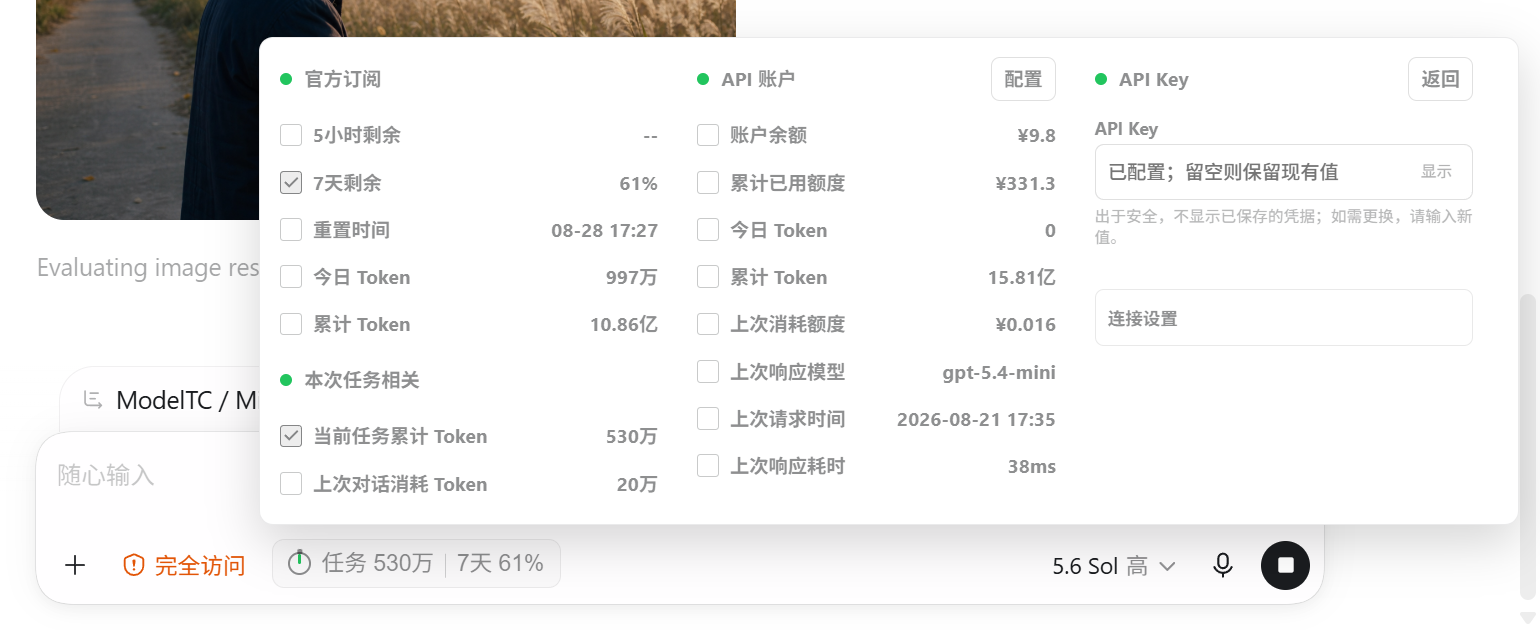
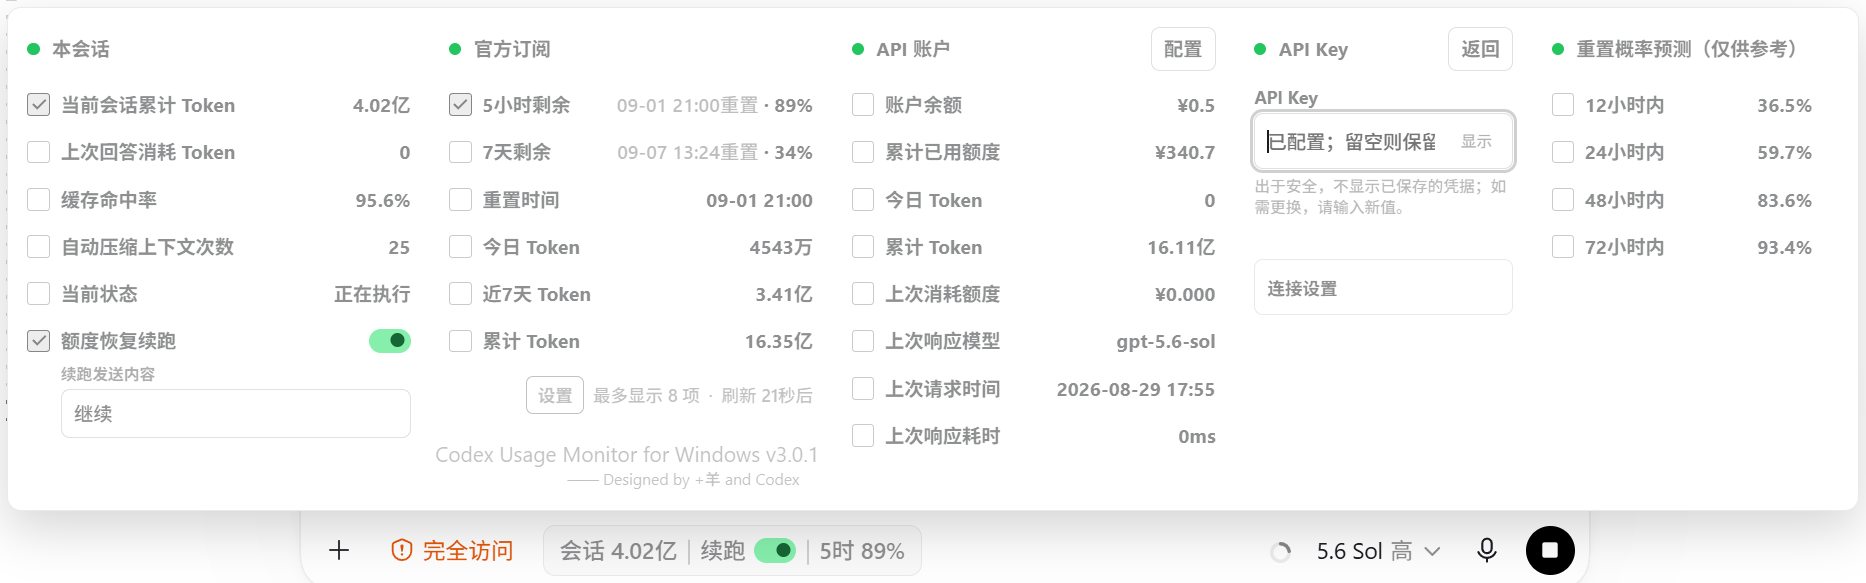
Release v3.0.1

diff --git a/assets/usage-inject.js b/assets/usage-inject.js
@@ -487,7 +487,7 @@
     .usage-summary-item { position: relative; display: inline-flex; align-items: center; min-width: 0; height: 100%; overflow: hidden; text-overflow: ellipsis; white-space: nowrap; font-variant-numeric: tabular-nums; }
     .usage-summary-auto-resume { gap: 5px; overflow: visible; }
     :host([data-minimal="true"]) .usage-summary-auto-resume { gap: 0; }
-    .usage-summary-toggle { flex: 0 0 30px; }
+    .usage-summary-toggle { flex: 0 0 24px; }
     .usage-summary-item + .usage-summary-item { padding-left: 13px; }
     .usage-summary-item + .usage-summary-item::before {
       content: "";
@@ -555,7 +555,7 @@
       bottom: calc(100% + 8px);
       z-index: 40;
       left: var(--usage-popover-shift, 0px);
-      width: var(--usage-popover-width, min(920px, calc(100vw - 24px)));
+      width: max-content;
       max-height: min(440px, calc(100vh - 72px));
       padding: 10px 11px;
       border: 1px solid color-mix(in srgb, currentColor 18%, transparent);
@@ -571,7 +571,7 @@
     }
     .usage-columns {
       display: grid;
-      grid-template-columns: repeat(var(--usage-column-count, 4), minmax(230px, 1fr));
+      grid-template-columns: var(--usage-column-widths, repeat(var(--usage-column-count, 4), minmax(230px, 1fr)));
       align-items: stretch;
     }
     .usage-column { box-sizing: border-box; display: flex; flex-direction: column; width: 100%; min-width: 0; padding: 0 11px; }
@@ -1109,7 +1109,7 @@
       usage.sources.official || normalizeSource({ id: "official", label: "官方订阅", accountType: "subscription", status: "unavailable" }, "official"),
       usage.sources["api-account"] || normalizeSource({ id: "api-account", label: "API 账户", accountType: "api-account", status: "unavailable", error: "未配置 API 账户令牌" }, "api-account"),
       { ...apiKeySource, label: "API Key" },
-      usage.sources["reset-forecast"] || normalizeSource({ id: "reset-forecast", label: "重置预测", accountType: "forecast", status: "unavailable", error: "重置预测接口暂不可用" }, "reset-forecast"),
+      usage.sources["reset-forecast"] || normalizeSource({ id: "reset-forecast", label: "重置概率预测（仅供参考）", accountType: "forecast", status: "unavailable", error: "重置概率预测接口暂不可用" }, "reset-forecast"),
     ].map(selectableSource).map((source) => {
       const localizedStatus = source.status === "loading" ? t("loading") : source.status === "ready" ? t("ready")
         : source.status === "stale" ? t("stale") : source.status === "rate-limited" ? t("rateLimited")
@@ -1417,6 +1417,12 @@
     }
     updateCountdowns(host, usage);
     host.dataset.rendered = "true";
+    if (host.dataset.open === "true") {
+      requestAnimationFrame(() => {
+        const state = window[STATE_KEY];
+        if (state?.host === host) state.ensure();
+      });
+    }
   };
 
   let preferredComposer = null;

diff --git a/assets/usage-placement.js b/assets/usage-placement.js
@@ -126,14 +126,19 @@
     host.style.setProperty("--usage-max-width", `${available}px`);
     const apiColumnsVisible = host.dataset.apiColumns !== "false";
     const baseColumnCount = apiColumnsVisible ? 4 : 2;
-    const basePopoverWidth = apiColumnsVisible ? 920 : 520;
     const columnCount = Math.max(baseColumnCount, Number.parseInt(host.dataset.columnCount, 10) || baseColumnCount);
-    const columnWidth = basePopoverWidth / baseColumnCount;
-    const preferredPopoverWidth = Math.round(columnWidth * columnCount);
-    const popoverWidth = Math.max(280, preferredPopoverWidth);
-    const desiredLeftExtension = -Math.max(0, preferredPopoverWidth - basePopoverWidth);
+    const resetForecastVisible = columnCount > baseColumnCount;
+    const columnWidths = [230, 230];
+    if (apiColumnsVisible) columnWidths.push(230, 170);
+    if (resetForecastVisible) columnWidths.push(160);
+    while (columnWidths.length < columnCount) columnWidths.push(230);
+    const columnWidthTotal = columnWidths.reduce((total, width) => total + width, 0);
+    const renderedPopoverWidth = box(host.shadowRoot?.querySelector(".usage-popover"))?.width || 0;
+    const popoverWidth = Math.max(280, renderedPopoverWidth, columnWidthTotal + 40);
+    const desiredLeftExtension = resetForecastVisible ? -160 : 0;
     const rightEdgeShift = window.innerWidth - 12 - placementX - popoverWidth;
-    const popoverShift = Math.min(desiredLeftExtension, rightEdgeShift);
+    const popoverShift = Math.min(desiredLeftExtension, rightEdgeShift) - 16;
+    host.style.setProperty("--usage-column-widths", columnWidths.map((width) => `${width}px`).join(" "));
     host.style.setProperty("--usage-popover-width", `${popoverWidth}px`);
     host.style.setProperty("--usage-popover-shift", `${popoverShift}px`);
     host.dataset.anchor = approval ? "approval" : widestGap ? "control-gap" : anchor ? "control" : "composer-left";

diff --git a/assets/usage-i18n.js b/assets/usage-i18n.js
@@ -10,7 +10,7 @@
       session: "本会话",
       apiAccount: "API 账户",
       apiKey: "API Key",
-      resetForecast: "重置预测",
+      resetForecast: "重置概率预测（仅供参考）",
       configure: "配置",
       back: "返回",
       saveConfiguration: "保存配置",
@@ -63,7 +63,7 @@
       englishUi: "English UI",
       updateNotifications: "自动更新",
       showApiColumns: "API 栏",
-      showResetForecast: "重置预测栏",
+      showResetForecast: "重置概率预测栏",
       settings: "设置",
       autoResume: "额度恢复续跑",
       autoResumeMessage: "续跑发送内容",
@@ -111,7 +111,7 @@
       session: "Session",
       apiAccount: "API Account",
       apiKey: "API Key",
-      resetForecast: "Reset Forecast",
+      resetForecast: "Reset Probability (FYI)",
       configure: "Configure",
       back: "Back",
       saveConfiguration: "Save configuration",
@@ -164,7 +164,7 @@
       englishUi: "中文界面",
       updateNotifications: "Auto update",
       showApiColumns: "API columns",
-      showResetForecast: "Reset forecast",
+      showResetForecast: "Reset probability",
       settings: "Settings",
       autoResume: "Resume after reset",
       autoResumeMessage: "Resume message",

diff --git a/assets/usage-constants.js b/assets/usage-constants.js
@@ -1,7 +1,7 @@
 (() => {
   const registry = window.__CODEX_USAGE_MONITOR_MODULES__ ||= {};
   registry.constants = Object.freeze({
-    VERSION: "3.0.0",
+    VERSION: "3.0.1",
     STATE_KEY: "__CODEX_USAGE_MONITOR_STATE__",
     USAGE_KEY: "__CODEX_USAGE_MONITOR__",
     HOST_ID: "codex-usage-monitor",

diff --git a/docs/data-sources.md b/docs/data-sources.md
@@ -8,13 +8,13 @@
 | --- | --- | --- |
 | 本会话 | 当前正在查看的 Codex 会话日志。 | 无需额外凭据。 |
 | 官方订阅 | Codex Desktop 本机 app-server 返回账户周期与 Token 汇总；任务事件来自本机 `token_count`。 | 无需额外凭据。 |
-| 重置预测 | 开源项目 [gussuri/codex-reset-observatory](https://github.com/gussuri/codex-reset-observatory) 公共接口返回的 12/24/48/72 小时社区统计概率。 | 无需凭据；非 OpenAI 官方数据。 |
+| 重置概率预测（仅供参考） | 开源项目 [gussuri/codex-reset-observatory](https://github.com/gussuri/codex-reset-observatory) 公共接口返回的 12/24/48/72 小时社区统计概率。 | 无需凭据；非 OpenAI 官方数据。 |
 | API 账户 | 第三方服务商的账户信息与请求日志接口。 | 账户访问令牌、数字用户 ID、Base URL。 |
 | API Key | 第三方服务商为某个 Key 提供的额度或用量接口，由 Provider 映射响应字段。 | 对应 API Key。 |
 
 API 账户与 API Key 是两种不同的数据来源：前者面向整个用户账户和请求日志，后者面向单个 Key 的额度信息。服务商的接口字段可能不同，可让 Codex 根据公开文档或脱敏响应适配。
 
-“重置预测”每 5 分钟读取一次上游固定 HTTPS 公共接口，只发送无凭据 GET 请求，不上传本机用量、任务标识、对话内容或任何凭据。预测结果只用于显示，不参与自动续跑；上游将数据标记为过期时，该栏显示红灯并保留最近概率。
+“重置概率预测”每 5 分钟读取一次上游固定 HTTPS 公共接口，只发送无凭据 GET 请求，不上传本机用量、任务标识、对话内容或任何凭据。预测结果只用于显示，不参与自动续跑；上游将数据标记为过期时，该栏显示红灯并保留最近概率。
 
 ## 2. 官方订阅
 
@@ -136,7 +136,8 @@ API Key 接口返回 `HTTP 429` 时，该栏显示“请求受限”并保留上
 
 - **极简模式**：隐藏指标名称，只显示数值与单位；最多选择 14 项，选中 9 项及以上时使用双行压缩布局。
 - **倒计时可视化**：在折叠监视栏最左侧显示与文字同色的圆形表盘，绿色指针每 60 秒顺时针旋转一圈。
-- **设置入口**：全局选项和品牌信息位于“官方订阅”栏底部；点击“设置”才展开两列三行的六个选项。新安装默认隐藏 API 账户和 API Key 两栏，可用“API 栏”开关恢复；“重置预测栏”可独立显示或隐藏。
+- **设置入口**：全局选项和品牌信息位于“官方订阅”栏底部；点击“设置”才展开两列三行的六个选项。新安装默认隐藏 API 账户和 API Key 两栏，可用“API 栏”开关恢复；“重置概率预测栏”可独立显示或隐藏。
+- **展开面板**：面板直接内嵌在 Codex 主界面；各栏拥有不随其他栏显隐变化的独立内容宽度：本会话、官方订阅和 API 账户各 230 px、API Key 170 px、重置概率预测 160 px。外框使用内容自适应宽度，自动计入边框、内边距和滚动条预留。
 - **显示顺序**：折叠监视栏严格按指标勾选先后从左到右排列；取消后再次勾选会移动到末尾，顺序随其他界面设置一起持久化。
 - **English UI**：切换中英文界面，并同步使用 `K`、`M`、`B` 英文单位。
 - **自动更新**：开启后，运行中的监视器最多每 24 小时无凭据检查一次本项目的 GitHub Release。仅接受正式版本及名称严格匹配的 Windows ZIP，并在下载后核对 GitHub 提供的 SHA-256 摘要；校验通过才安装并热替换监视器后台，不会重启 Codex。任何步骤失败都会保留当前版本，并在下个周期重试。

diff --git a/CHANGELOG.md b/CHANGELOG.md
@@ -1,10 +1,15 @@
 # Changelog
 
+## 3.0.1 - 2026-09-01
+
+- 恢复 Codex 内嵌展开面板，并为每个数据源设置不随其他栏显隐变化的独立宽度：本会话、官方订阅和 API 账户各 230 px、API Key 170 px、重置概率预测 160 px。外框使用内容自适应宽度，自动计入边框、内边距和滚动条预留，避免最右栏被裁切。
+- 收紧折叠监视栏“续跑”开关的额外占位，使右侧分隔线靠近开关；展开面板整体向左微移 16 px。
+
 ## 3.0.0 - 2026-09-01
 
 - 将“额度恢复续跑”的开关和发送内容改为按 Codex 任务 ID 独立保存；在一个任务中启停或修改内容，不再影响其他任务。
 - 自动续跑在额度恢复时直接向原任务提交续跑回合，原生排队消息保持原顺序和内容，不会被续跑消息覆盖或删除。
-- 新增可关闭的“重置预测”栏，每 5 分钟读取 Codex Reset Observatory 的社区统计，显示未来 12/24/48/72 小时概率；该数据仅供展示，不参与额度恢复判断。
+- 新增可关闭的“重置概率预测”栏，每 5 分钟读取 Codex Reset Observatory 的社区统计，显示未来 12/24/48/72 小时概率；该数据仅供展示，不参与额度恢复判断。
 - 将“官方订阅”栏底部的版本与署名文字向左微调 8 px。
 - 展开面板按原有栏宽向左扩展，新增栏位不再压窄其他栏；定位时优先保留完整右边缘，多出的宽度允许从左侧超出 Codex 内容区，不显示横向滚动条。设置开关固定为两列三行。
 - 修复极简模式仍显示“续跑”文字的问题；折叠监视栏中的额度恢复续跑现在只保留可操作开关。
